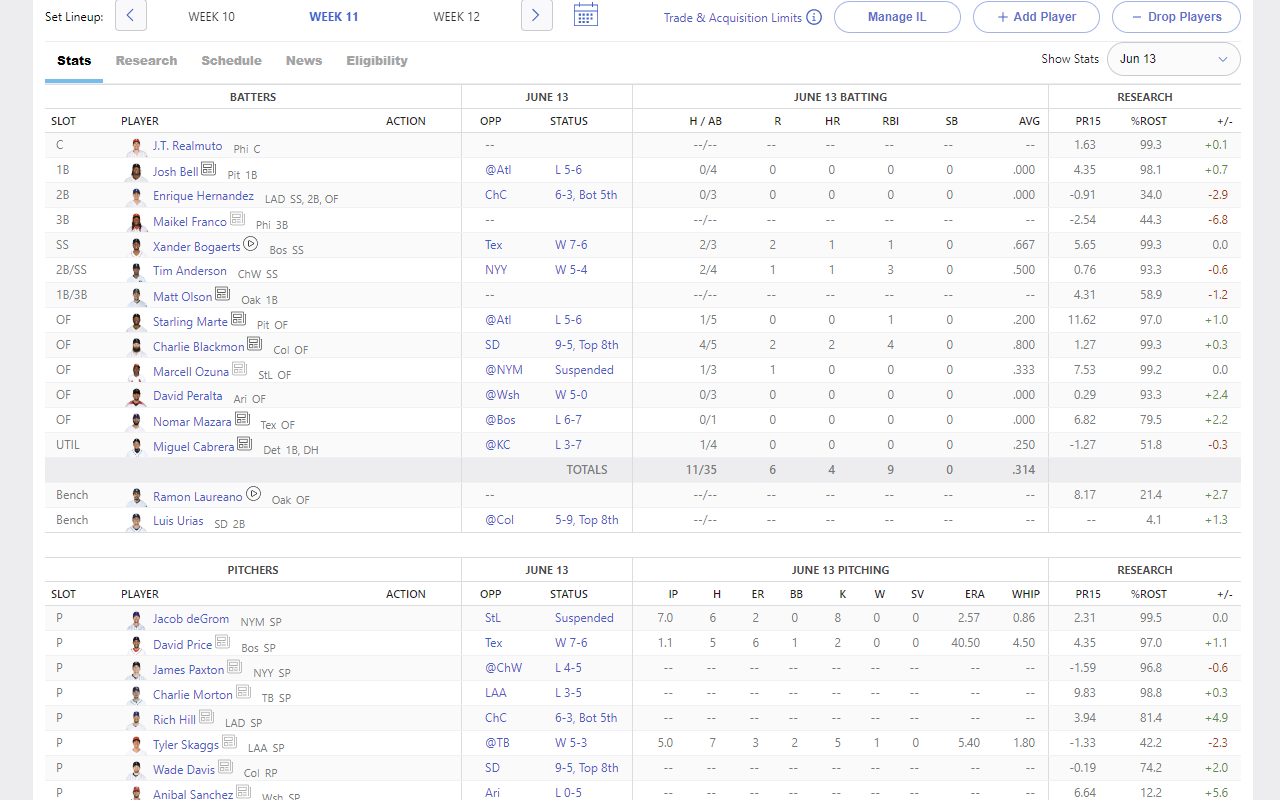
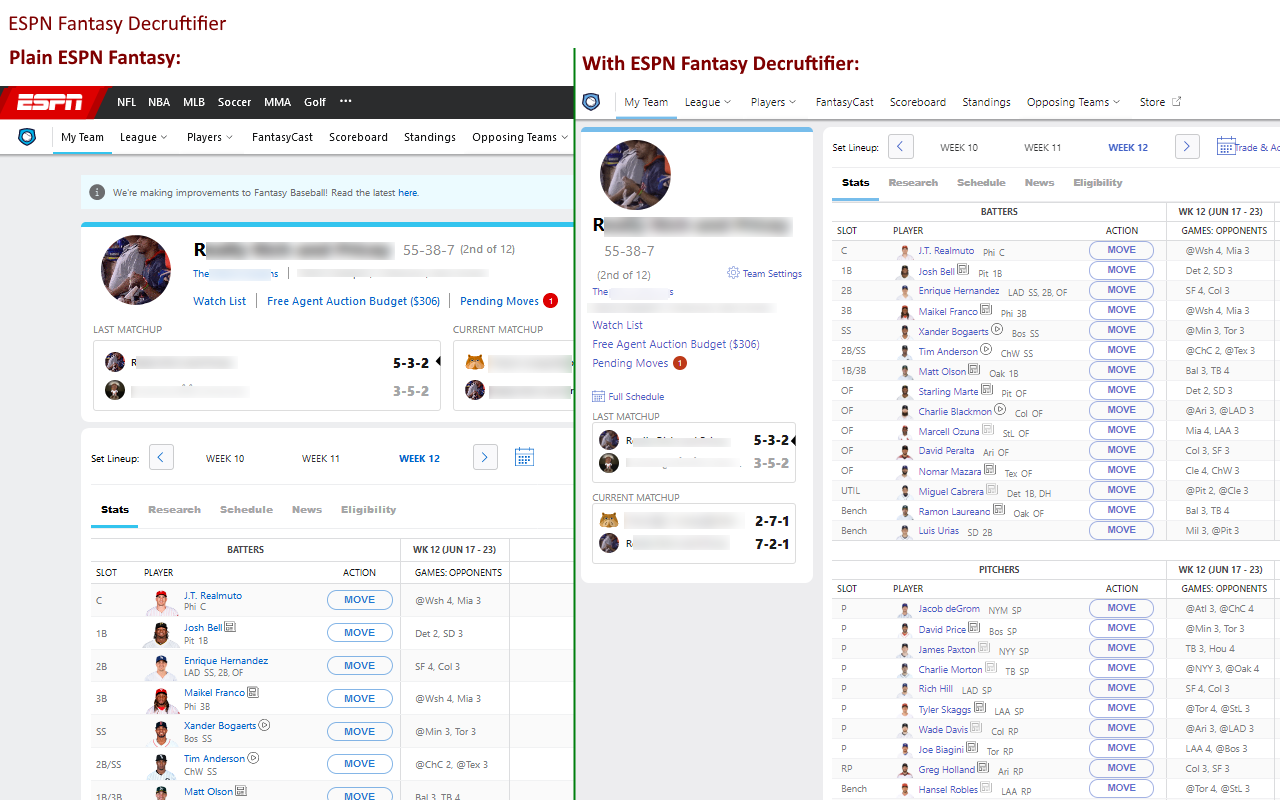
release-0-6

diff --git a/content.css b/content.css
@@ -1,5 +1,4 @@
 /* things to kill entirely */
-
 .jsx-2081404069, /* "we're making improvements" */
 .jsx-763806470, /* primary nav container */
 .Nav__Primary,
@@ -7,6 +6,92 @@ footer
 {
 	display:none !important;
 }
+
+
+.Table2__table td
+{ /* Tighten up many things */
+	padding: 0 5px !important;  
+}
+.ScoreboardScoreCell__Item,
+.team-page .content-nav,
+.team-page .team-page,
+.NavMain__Secondary
+{ /* Really tighten up */
+	padding: 0 !important;  
+	margin: 0 !important;
+}
+
+.NavMain__Secondary {max-width: unset !important;}
+
+.page-container
+ {
+	margin: 0 !important;
+	width: 100% !important;
+}
+
+@media screen and (min-width:1400px){
+	/* only for the My Team page on wide screens */
+	.layout.is-9-3 {
+		width: 302px;
+		float: left;
+		min-width:302px; 
+	}
+	
+	.layout.is-9-3	.team-details-primary ,
+	.layout.is-9-3	.matchups-display,
+	.layout.is-9-3	.additional-links
+	{
+		display: inline-flex !important; 
+		flex-direction: column !important;
+	}
+		
+	.layout.is-9-3	.team-details-secondary > *,
+	.layout.is-9-3	.links-group > * 
+	{
+		display: block;
+		border: none !important;
+		margin-left: 0 !important;
+		margin-bottom: 5px;
+		padding-left: 0 !important;
+	}
+	
+	.layout.is-9-3	.matchups-display,
+	.layout.is-9-3	.matchups-display .full-schedule-link,
+	.layout.is-9-3	.team-pending-moves-container 
+	{
+		position: static !important;
+	}
+	
+	.layout.is-9-3	.matchup-score 
+	{ 
+		padding: 0 !important;
+		width: 255px;
+	}
+	
+	.layout.is-9-3 .layout__column--1 { padding-right: 12px !important; }
+	.layout.is-9-3 .layout__column--2 {display: none !important;}
+	.layout.is-9-3	.matchups-display > *{ margin-bottom: 10px; }
+	.layout.is-9-3	.team-settings-link {margin-top: -20px;}
+	.layout.is-9-3	.additional-links {margin-top: 20px !important;}
+	.layout.is-9-3	.team-info-container {height: auto !important;}
+	
+	.matchup-label,
+	.links-group,
+	.scoring--period-lineups
+	{ /* Really tighten up */
+		padding: 0 !important;  
+		margin: 0 !important;
+	}
+}
+	
+
+
+.layout__column--2 /* ad container */
+{
+	/* display:none !important; */
+}
+
+
 
 .jsx-3743397412, /* player's head shot */
 .player-column__empty-headshot
@@ -23,22 +108,6 @@ footer
 
 .player-column__athlete, .player-column__athlete span, .player-column__position {
 	display: inline-block !important;
-}
-
-.Table2__table td
-{ /* Tighten up many things */
-	padding: 0 5px !important;  
-}
-.ScoreboardScoreCell__Item,
-.team-page .content-nav,
-.team-page .team-page,
-.matchup-label,
-.links-group,
-.additional-links,
-.scoring--period-lineups
-{ /* Really tighten up */
-	padding: 0 !important;  
-	margin: 0 !important;
 }
 
 .container.jsx-2968158442 /* lineup container */
@@ -68,6 +137,8 @@ div.players-table .Table2__table__wrapper .Table2__Table--fixed--left tr.Table2_
 	height: 24px !important;  /* not sure why 1px gets added to this number? */
 }
 
+.btn.action-buttons{ padding: 0;}
+
 .claim-action-btn ,
 .watch-action-btn {
 	height: 22px !important;
@@ -81,10 +152,6 @@ div.players-table .Table2__table__wrapper .Table2__Table--fixed--left tr.Table2_
 	/* height: 25px !important; */
 /* } */
  
-.player-column__position {
-	margin-left: 1em;
-}
-.player-column__athlete{
-	margin-top: 5px;
-}
-.ScoreboardScoreCell__Item
+.player-column__position {	margin-left: 1em;}
+.table--cell.player__column {padding-right: 0 !important;}
+.player-column__athlete{	margin-top: 5px; }

diff --git a/README.md b/README.md
@@ -7,6 +7,8 @@ Note that this is fragile and frequently breaks due to changes on ESPN.  It is a
 After installing, the ESPN Fantasy Baseball site, especially player lists, should appear different and better.
 
 ## Release Notes
+## Version 0.6
+  - New wide team view -- fits more on the screen, especially for wider monitors
 
 ### Version 0.5 - First public release
   - Decruftifies the following:
